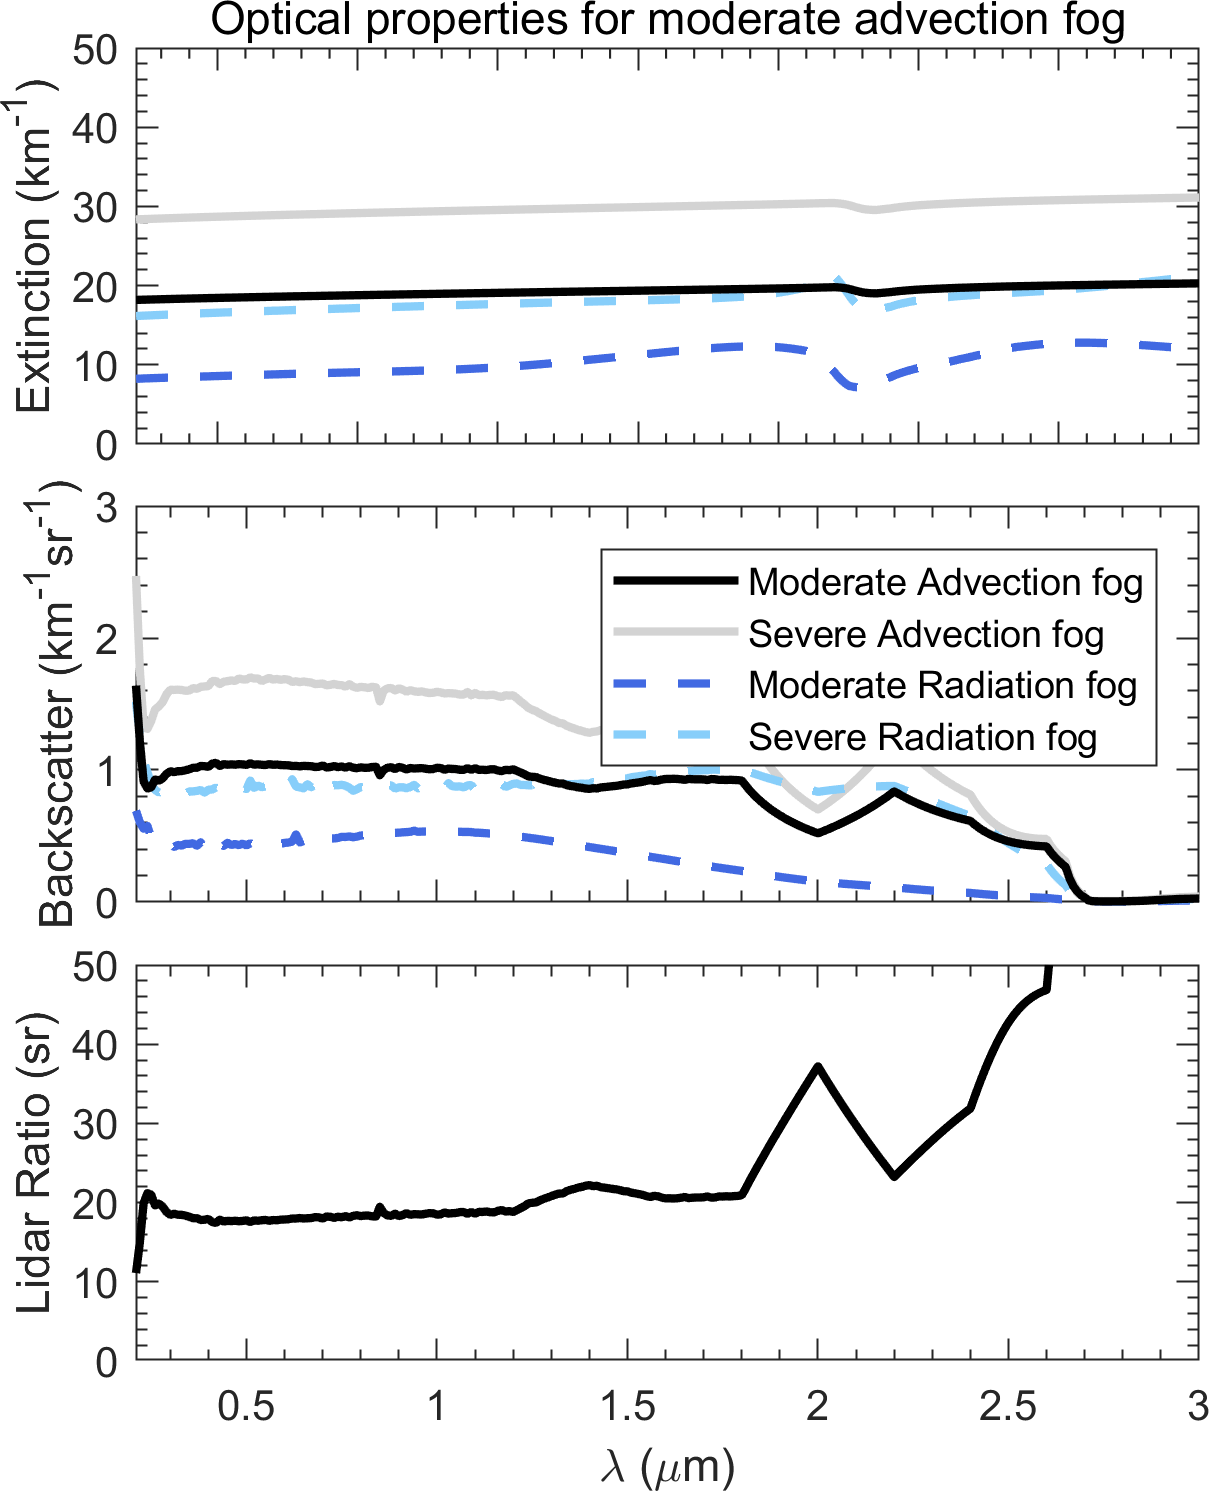
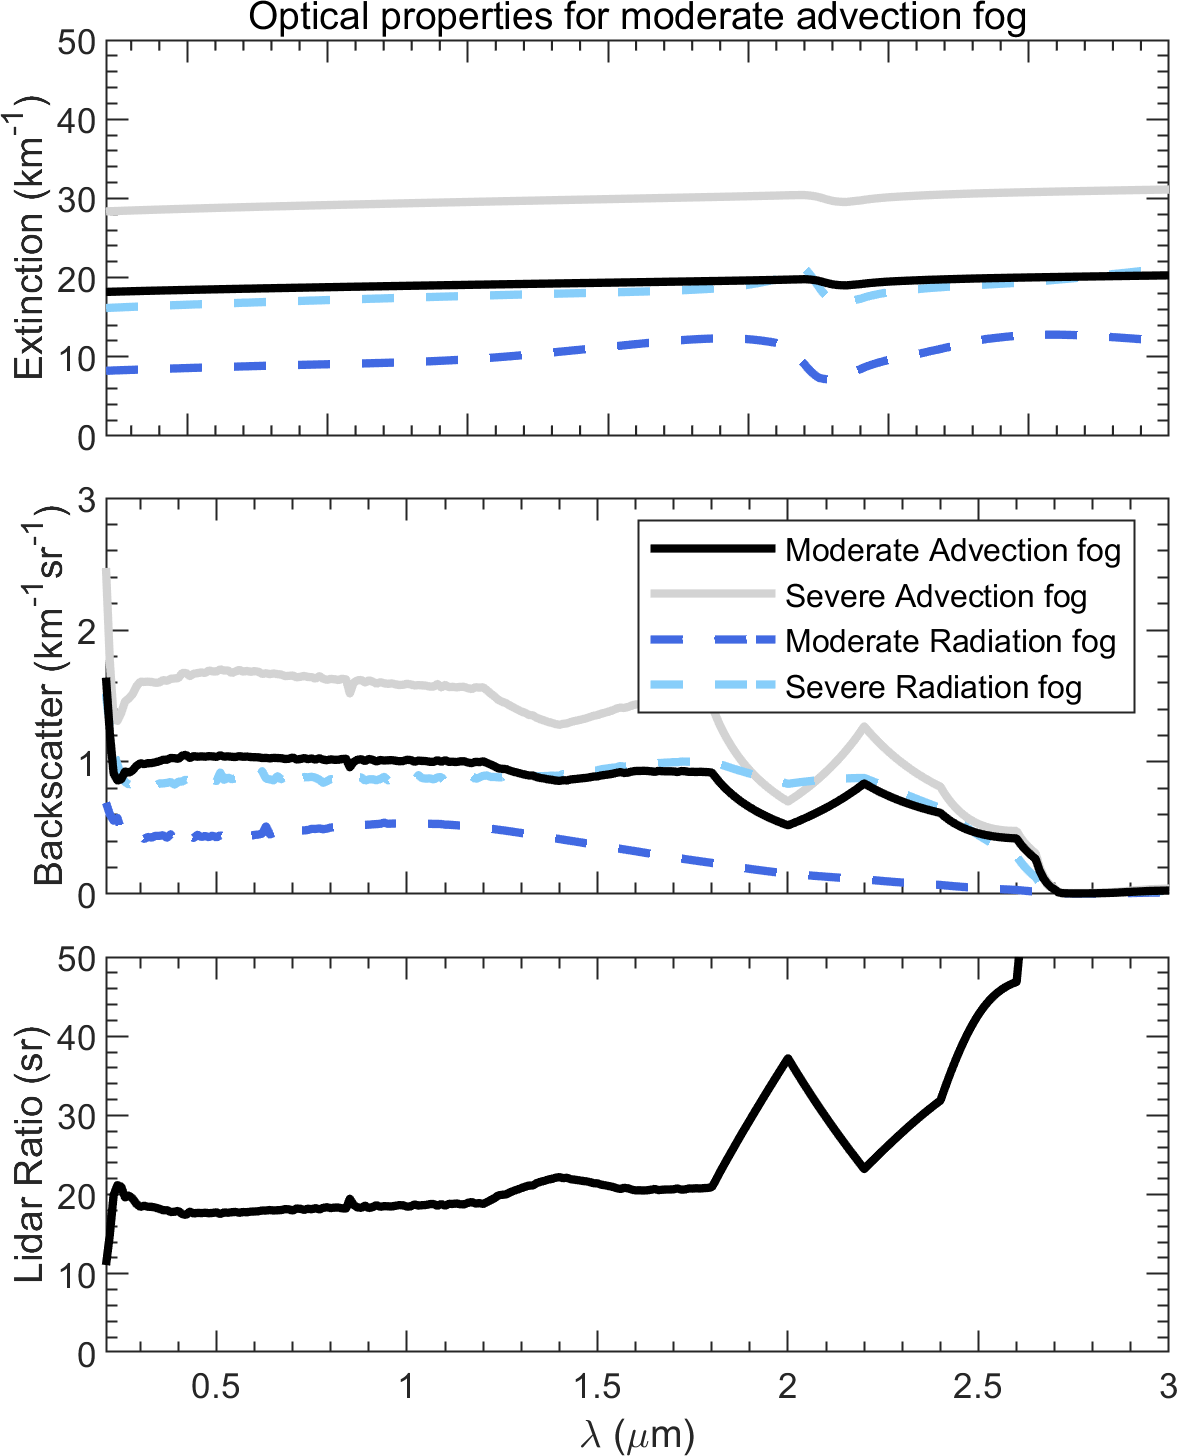
readme for 1030 vis

diff --git a/analysis/display_fog_optical_properties.m b/analysis/display_fog_optical_properties.m
@@ -50,6 +50,12 @@ fprintf('@1064nm: %5.3f; penatration depth (km): %5.3f\n', interp1(wavelength, e
 fprintf('@1600nm: %5.3f; penatration depth (km): %5.3f\n', interp1(wavelength, extinction(2, :) * factor, 1.6), 4 / interp1(wavelength, extinction(2, :) * factor, 1.6));
 fprintf('@2000nm: %5.3f; penatration depth (km): %5.3f\n', interp1(wavelength, extinction(2, :) * factor, 2.0), 4 / interp1(wavelength, extinction(2, :) * factor, 2.0));
 
+cloud_extinction= extinction(1, :);
+cloud_backscatter = backscatter(1, :);
+cloud_asymFactor = asymFactor(1, :);
+cloud_lidar_ratio = cloud_extinction ./ cloud_backscatter;
+save(fullfile(projectDir, 'data', 'sea-fog-optical-properties.mat'), 'wavelength', 'cloud_extinction', 'cloud_lidar_ratio', 'cloud_asymFactor', 'cloud_backscatter');
+
 %% Data visualization
 subPos = subfigPos([0.12, 0.10, 0.85, 0.84], 3, 1, 0, 0.04);
 

diff --git a/analysis/1030-visibility-lidar/readme.md b/analysis/1030-visibility-lidar/readme.md
@@ -1,0 +1,8 @@
+怎么处理1030nm能见度激光雷达数据？
+
+```matlab
+% 第一步打开convert_lidar_data_2_mat.m文件，编辑数据目录，并运行，将原始的激光雷达dat文件格式转换为mat格式；
+% 第二步打开convert_vis_sensor_data.m文件，编辑数据目录，并运行，将前向散射能见度仪的数据转换为mat格式；
+% 第三步打开process_cma_vis.m，编辑数据目录，并运行，处理得到消光系数和能见度产品；
+% 第四步打开display_statistics.m
+```